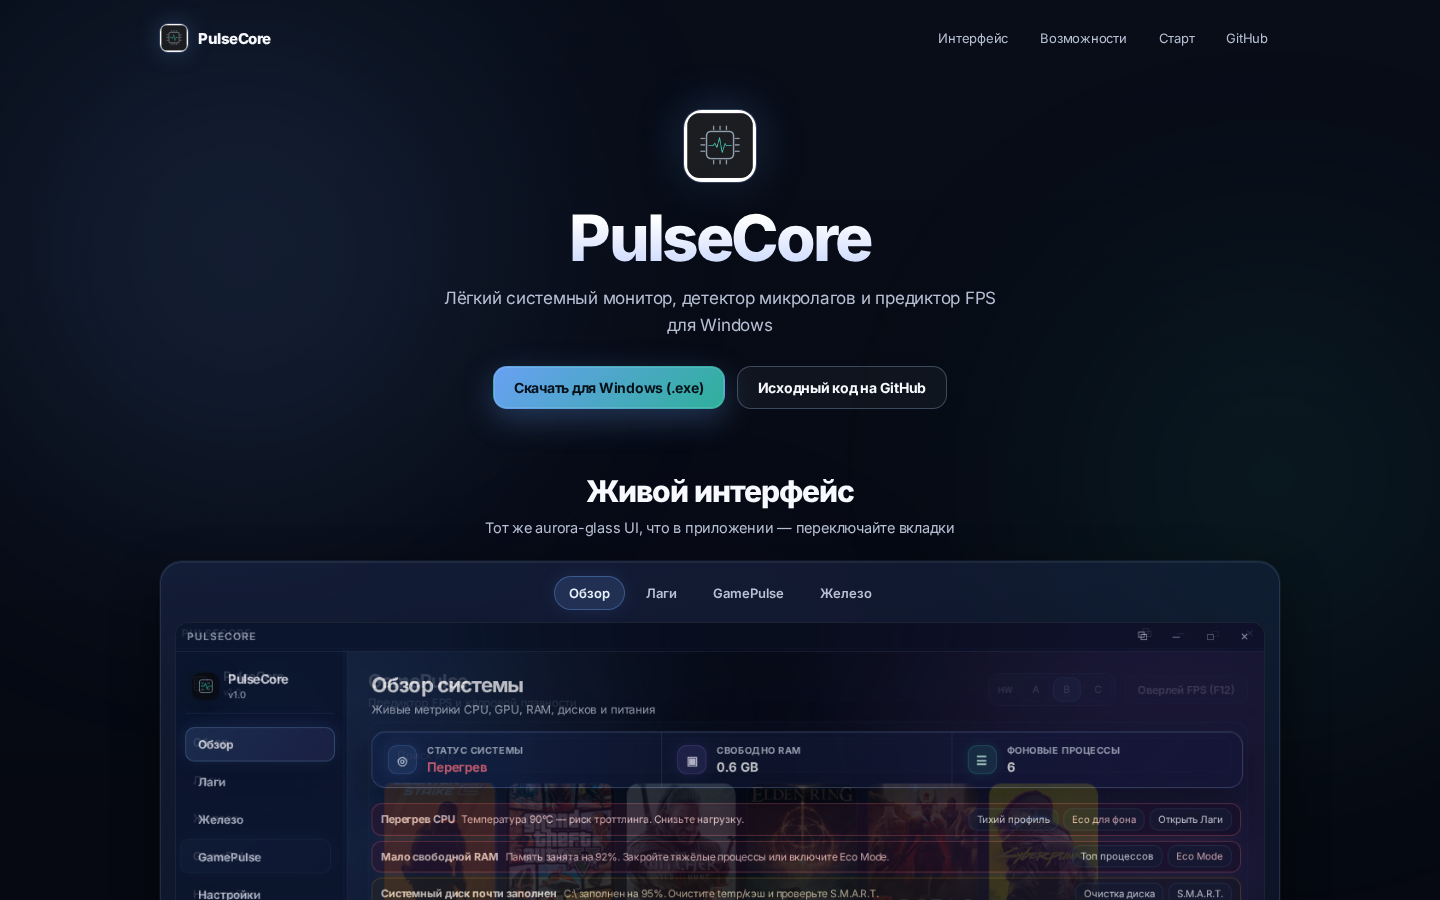
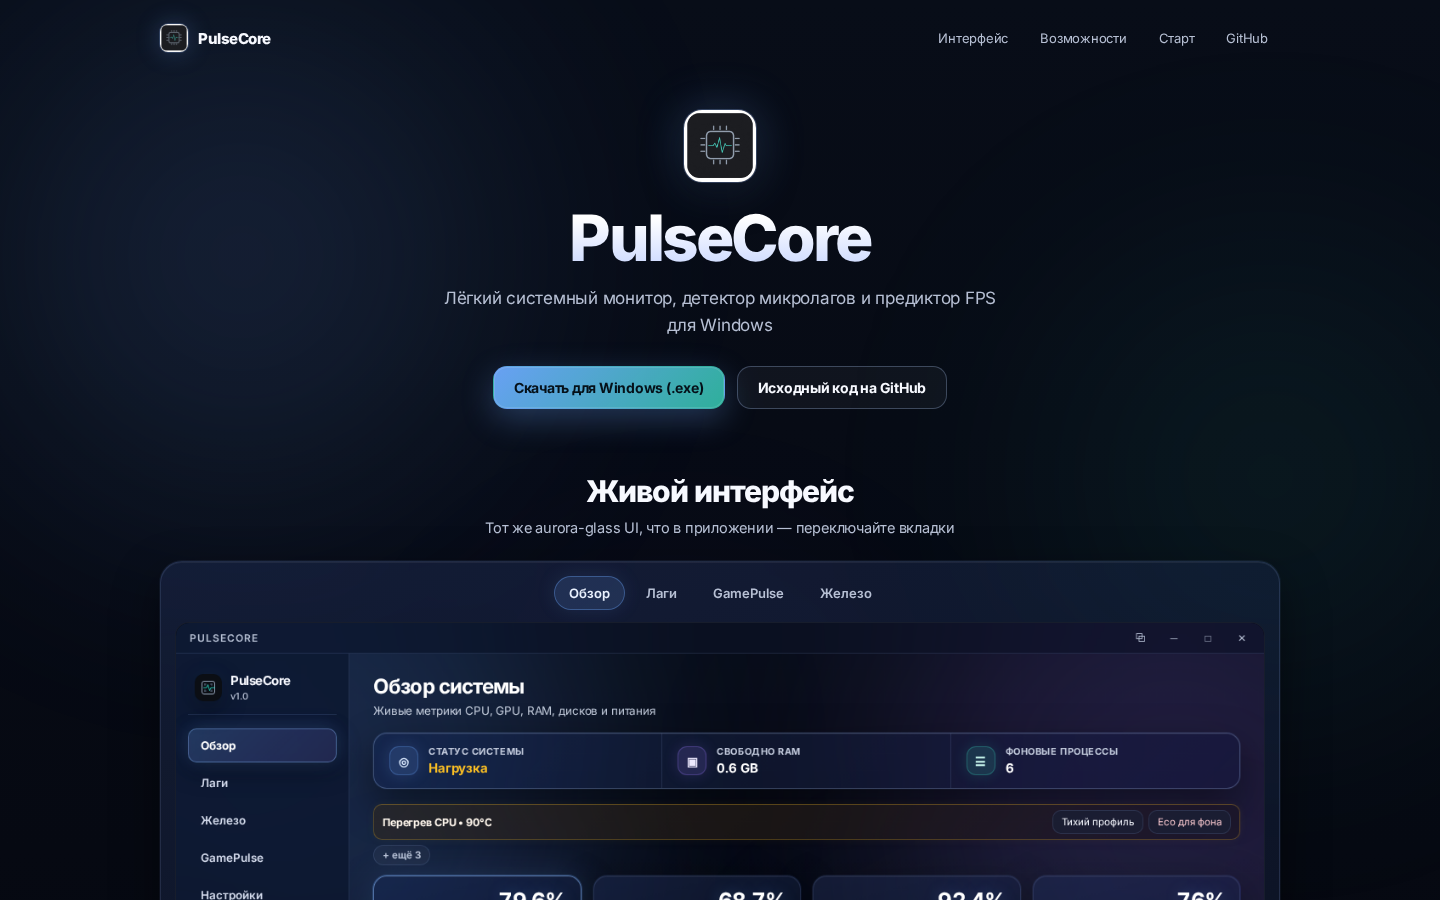
fix(docs): hide inactive landing preview tabs
Merge latest refactor screenshots; opaque preview frame with
display/visibility hide so GamePulse never bleeds under Overview.

diff --git a/docs/index.html b/docs/index.html
@@ -261,7 +261,8 @@
       border-radius: 14px;
       overflow: hidden;
       border: 1px solid rgba(160, 190, 255, 0.12);
-      background: #0a0e18;
+      background: #05070f; /* opaque — no stacked shot bleed */
+      isolation: isolate;
       aspect-ratio: 16 / 10;
     }
     .preview-frame img {
@@ -271,15 +272,21 @@
       height: 100%;
       object-fit: cover;
       object-position: top center;
+      display: none;
       opacity: 0;
-      transform: scale(1.02);
-      transition: opacity .45s ease, transform .55s ease;
+      visibility: hidden;
       pointer-events: none;
+      z-index: 0;
+      transform: scale(1.02);
+      transition: opacity .35s ease, transform .4s ease;
     }
     .preview-frame img.active {
+      display: block;
       opacity: 1;
-      transform: scale(1);
+      visibility: visible;
       pointer-events: auto;
+      z-index: 1;
+      transform: scale(1);
     }
 
     .bento {
